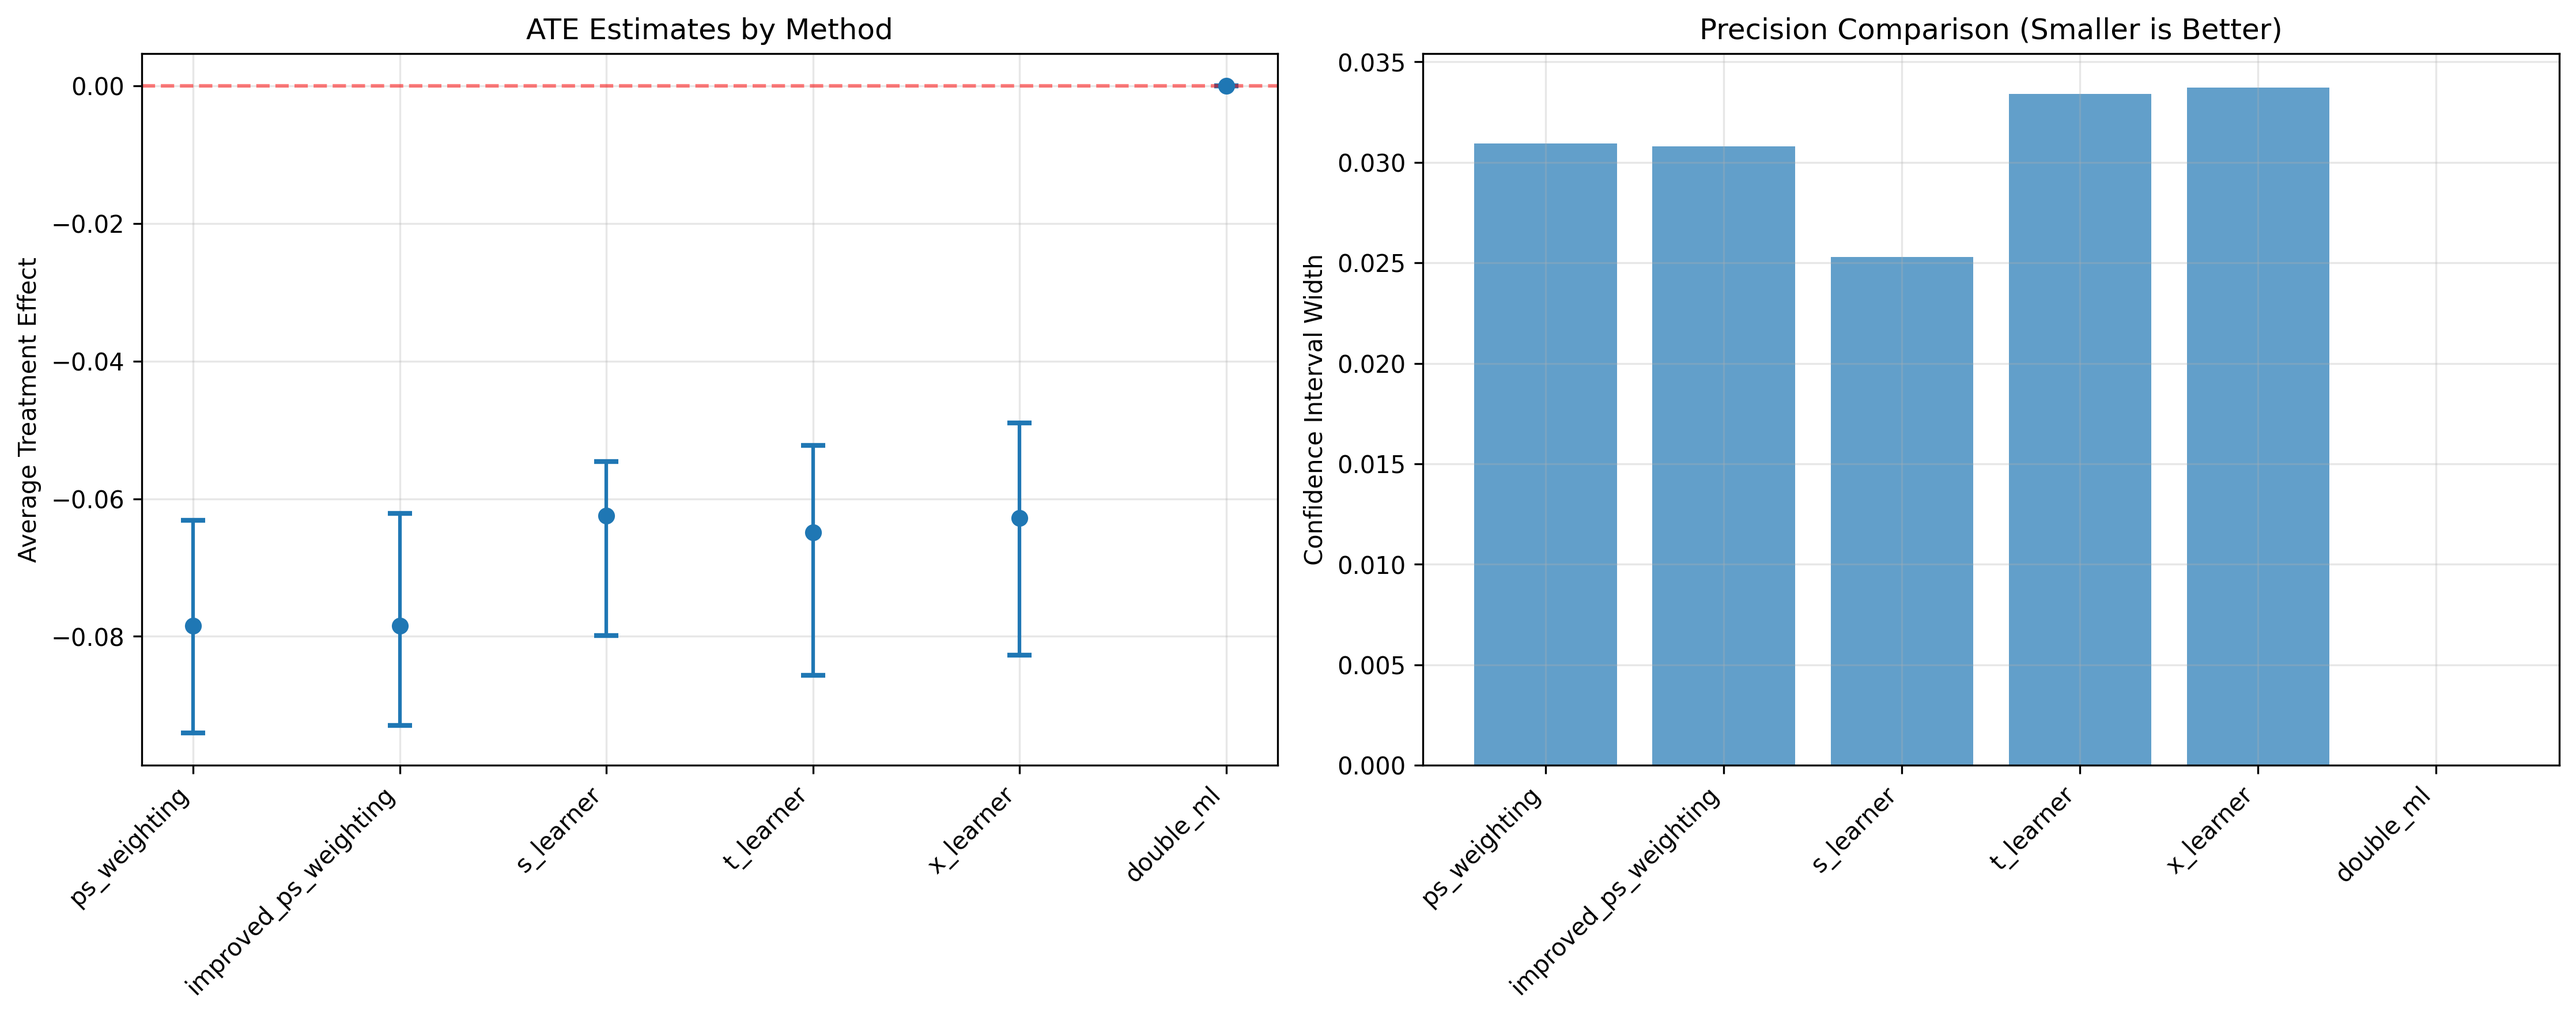
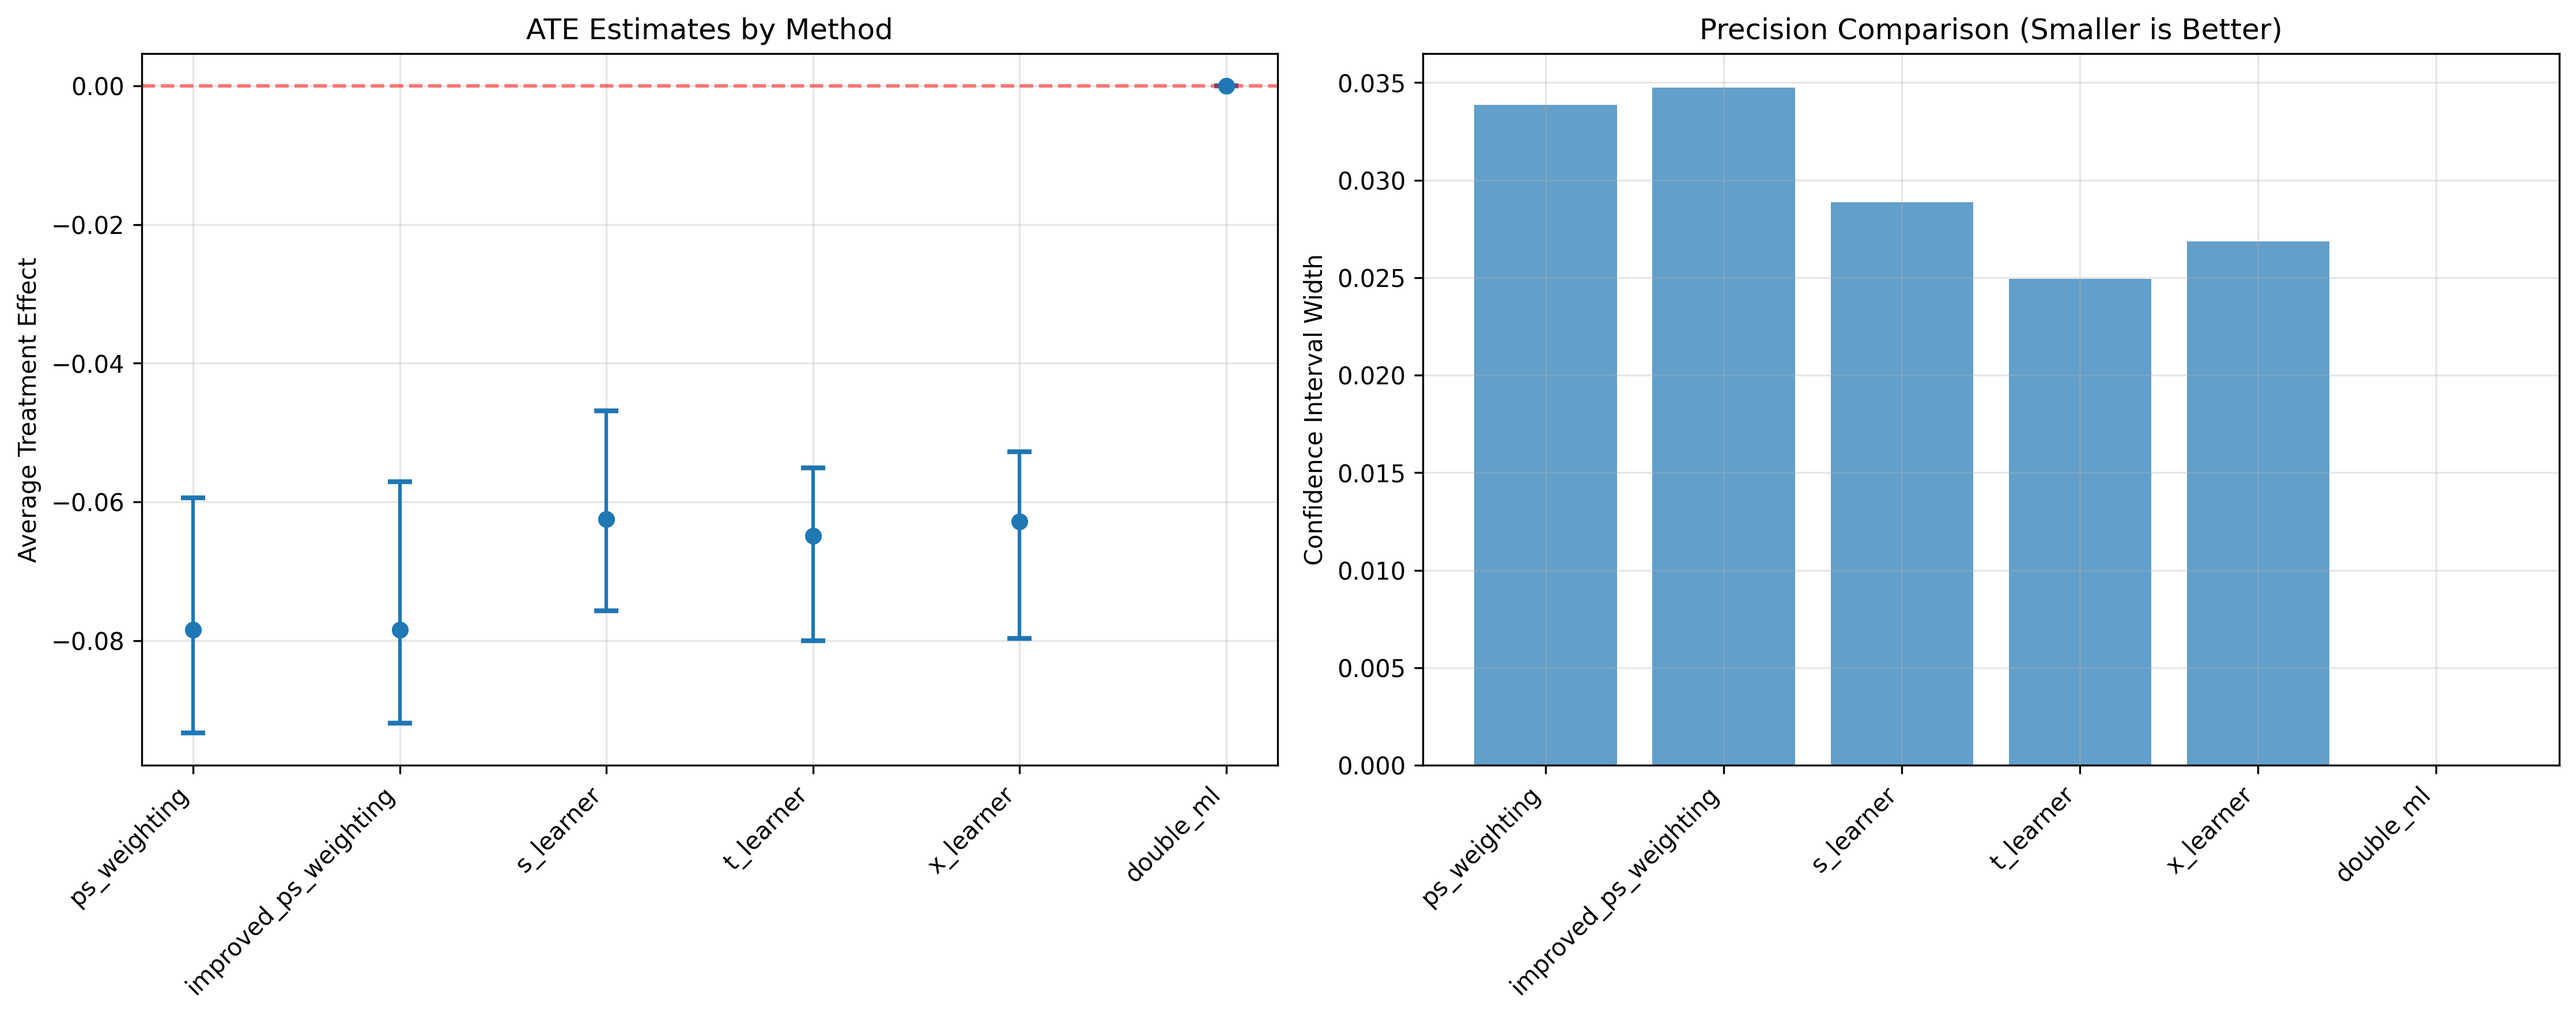
add bootstrap rule choosing

diff --git a/src/estimators/propensity_score.py b/src/estimators/propensity_score.py
@@ -85,6 +85,27 @@ class ImprovedPropensityScoreWeighting(CausalEstimator, MLModelMixin):
     
     def _estimate_ate(self, X, w, y):
         """内部ATE估计方法"""
+        # 检查数据基本要求
+        if len(w) == 0:
+            return 0.0, None
+        
+        # 检查是否有处理组和对照组
+        n_treated = np.sum(w == 1)
+        n_control = np.sum(w == 0)
+        
+        if n_treated == 0 or n_control == 0:
+            # 如果只有一个组，返回简单差分
+            if n_treated == 0:
+                return 0.0, None  # 没有处理组
+            else:
+                return 0.0, None  # 没有对照组
+        
+        # 如果样本太少，使用简单差分
+        if n_treated < 5 or n_control < 5:
+            treated_mean = np.mean(y[w == 1]) if n_treated > 0 else 0
+            control_mean = np.mean(y[w == 0]) if n_control > 0 else 0
+            return treated_mean - control_mean, None
+        
         X = self._preprocess_features(X)
         
         if hasattr(self, 'propensity_estimator_') and self.propensity_estimator_ is not None:
@@ -144,14 +165,33 @@ class ImprovedPropensityScoreWeighting(CausalEstimator, MLModelMixin):
         if hasattr(X, 'values'):
             X = X.values
         
-        # 标准化特征
-        if not hasattr(self, 'scaler_'):
-            self.scaler_ = StandardScaler()
-            X_scaled = self.scaler_.fit_transform(X)
-        else:
-            X_scaled = self.scaler_.transform(X)
+        # 处理空数据或只有一个样本的情况
+        if len(X) == 0:
+            return X
         
-        return X_scaled
+        # 如果只有一个特征列且全为常数，跳过标准化
+        if X.shape[1] == 0:
+            return X
+        
+        # 检查是否所有特征都是常数
+        if X.shape[0] > 1:
+            constant_features = np.all(X == X[0], axis=0)
+            if np.all(constant_features):
+                # 所有特征都是常数，跳过标准化
+                return X
+        
+        # 标准化特征
+        try:
+            if not hasattr(self, 'scaler_'):
+                self.scaler_ = StandardScaler()
+                X_scaled = self.scaler_.fit_transform(X)
+            else:
+                X_scaled = self.scaler_.transform(X)
+            return X_scaled
+        except Exception as e:
+            # 如果标准化失败，返回原始数据
+            print(f"特征标准化失败，使用原始特征: {e}")
+            return X
     
     def _estimate_propensity_scores(self, X, w):
         """估计倾向评分"""
@@ -183,6 +223,33 @@ class ImprovedPropensityScoreWeighting(CausalEstimator, MLModelMixin):
             propensity_scores = 1 / (1 + np.exp(-propensity_scores))
         
         return propensity_scores
+    
+    def _select_best_model_silent(self, models, X, y, cv=3, scoring=None):
+        """静默模型选择（不打印输出）"""
+        from sklearn.model_selection import cross_val_score
+        from sklearn.base import clone
+        
+        best_score = -np.inf
+        best_model = None
+        
+        for model_name, model in models.items():
+            try:
+                scores = cross_val_score(model, X, y, cv=cv, scoring=scoring)
+                mean_score = np.mean(scores)
+                
+                if mean_score > best_score:
+                    best_score = mean_score
+                    best_model = clone(model)
+            except Exception as e:
+                # 静默忽略失败的模型
+                continue
+        
+        # 如果所有模型都失败，返回第一个模型
+        if best_model is None:
+            best_model = clone(list(models.values())[0])
+            best_score = 0.0
+        
+        return best_model, best_score
     
     def _compute_weights(self, w, propensity_scores):
         """计算倾向评分权重"""

diff --git a/src/estimators/base.py b/src/estimators/base.py
@@ -45,8 +45,9 @@ class CausalEstimator(ABC):
         """Bootstrap置信区间"""
         n_samples = len(y)
         bootstrap_ates = []
+        failed_count = 0
         
-        for _ in range(n_bootstrap):
+        for i in range(n_bootstrap):
             # 重采样
             indices = np.random.choice(n_samples, n_samples, replace=True)
             X_boot = X.iloc[indices] if hasattr(X, 'iloc') else X[indices]
@@ -57,8 +58,19 @@ class CausalEstimator(ABC):
             try:
                 ate_boot, _ = self._estimate_ate(X_boot, w_boot, y_boot)
                 bootstrap_ates.append(ate_boot)
-            except:
+            except Exception as e:
+                failed_count += 1
+                # 只在前5次失败时显示错误，避免过多输出
+                if failed_count <= 5:
+                    print(f"Bootstrap round {i+1} failed: {e}")
                 continue
+        
+        # 检查是否有足够的成功bootstrap样本
+        if len(bootstrap_ates) == 0:
+            print(f"警告：所有 {n_bootstrap} 次bootstrap都失败了，无法计算置信区间")
+            return (np.nan, np.nan)
+        elif len(bootstrap_ates) < n_bootstrap * 0.5:
+            print(f"警告：只有 {len(bootstrap_ates)}/{n_bootstrap} 次bootstrap成功，置信区间可能不可靠")
         
         bootstrap_ates = np.array(bootstrap_ates)
         lower = np.percentile(bootstrap_ates, 100 * alpha / 2)

diff --git a/src/model.py b/src/model.py
@@ -119,6 +119,12 @@ class CausalModel:
         individual_effects : array-like
             每个个体的处理效应估计
         """
+        # 分离估计参数和构造函数参数
+        estimate_params = {
+            'bootstrap_rounds': kw.pop('bootstrap_rounds', 200),
+            'alpha': kw.pop('alpha', 0.05)
+        }
+        
         # 准备数据
         valid_adjustment_set = [var for var in getattr(self, 'adjustment_set', []) if var in self.data.columns]
         
@@ -138,6 +144,7 @@ class CausalModel:
             raise ValueError(f"方法 '{method}' 不支持异质性效应估计。支持的方法: {heterogeneous_methods}")
         
         estimator_class = self.available_methods[method]
+        # 只传递构造函数参数给估计器
         estimator = estimator_class(**kw)
         
         # 估计条件处理效应

diff --git a/src/estimators/causal_forest.py b/src/estimators/causal_forest.py
@@ -41,6 +41,9 @@ class CausalForestEstimator(CausalEstimator, MLModelMixin):
         # 训练因果森林
         self._fit_causal_forest(X, w, y)
         
+        # 设置拟合状态，这样predict_treatment_effects就能工作了
+        self.fitted_ = True
+        
         # 预测个体处理效应
         individual_effects = self.predict_treatment_effects(X)
         
@@ -52,7 +55,6 @@ class CausalForestEstimator(CausalEstimator, MLModelMixin):
         
         self.ate_ = ate
         self.ate_ci_ = ci
-        self.fitted_ = True
         
         return ate, ci
     
